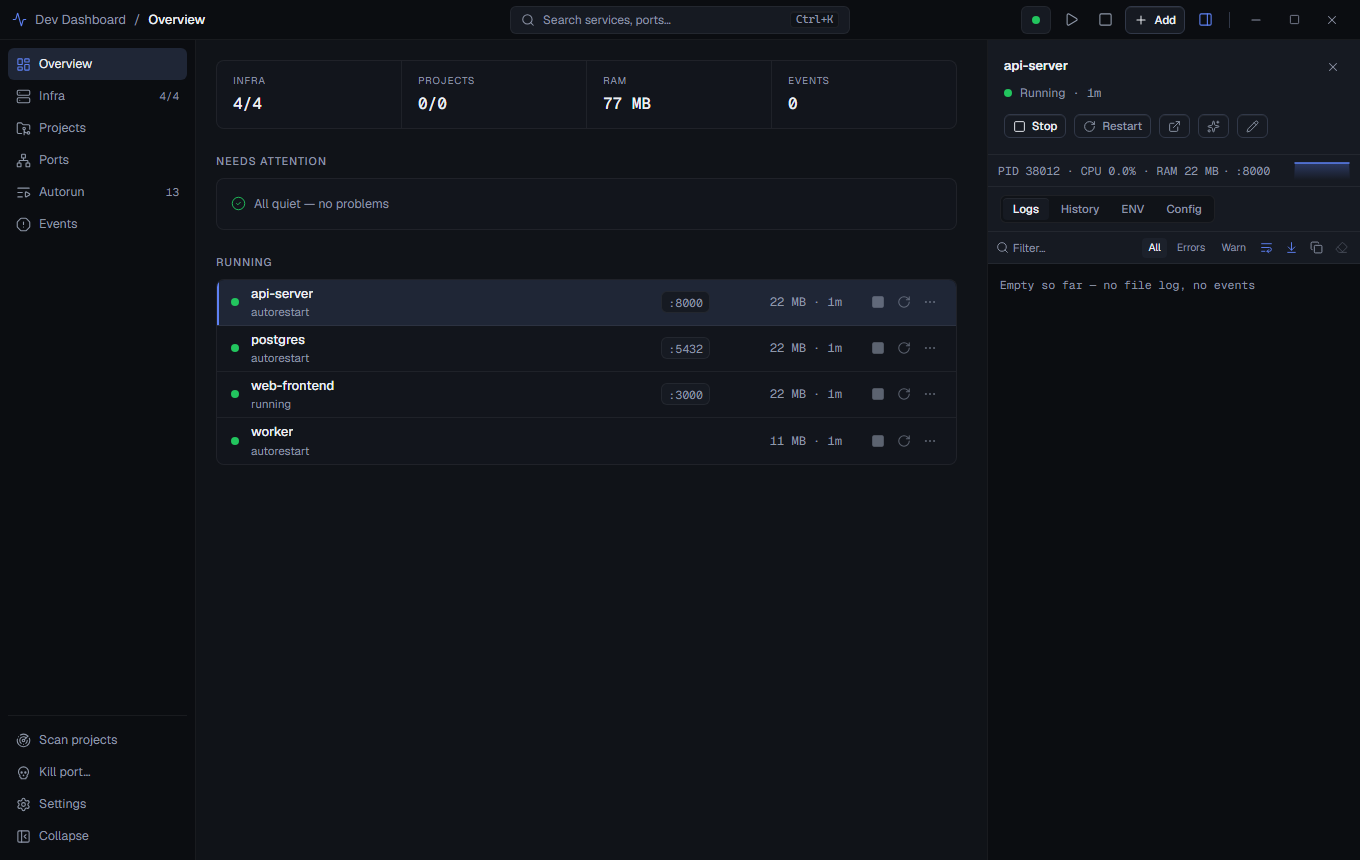
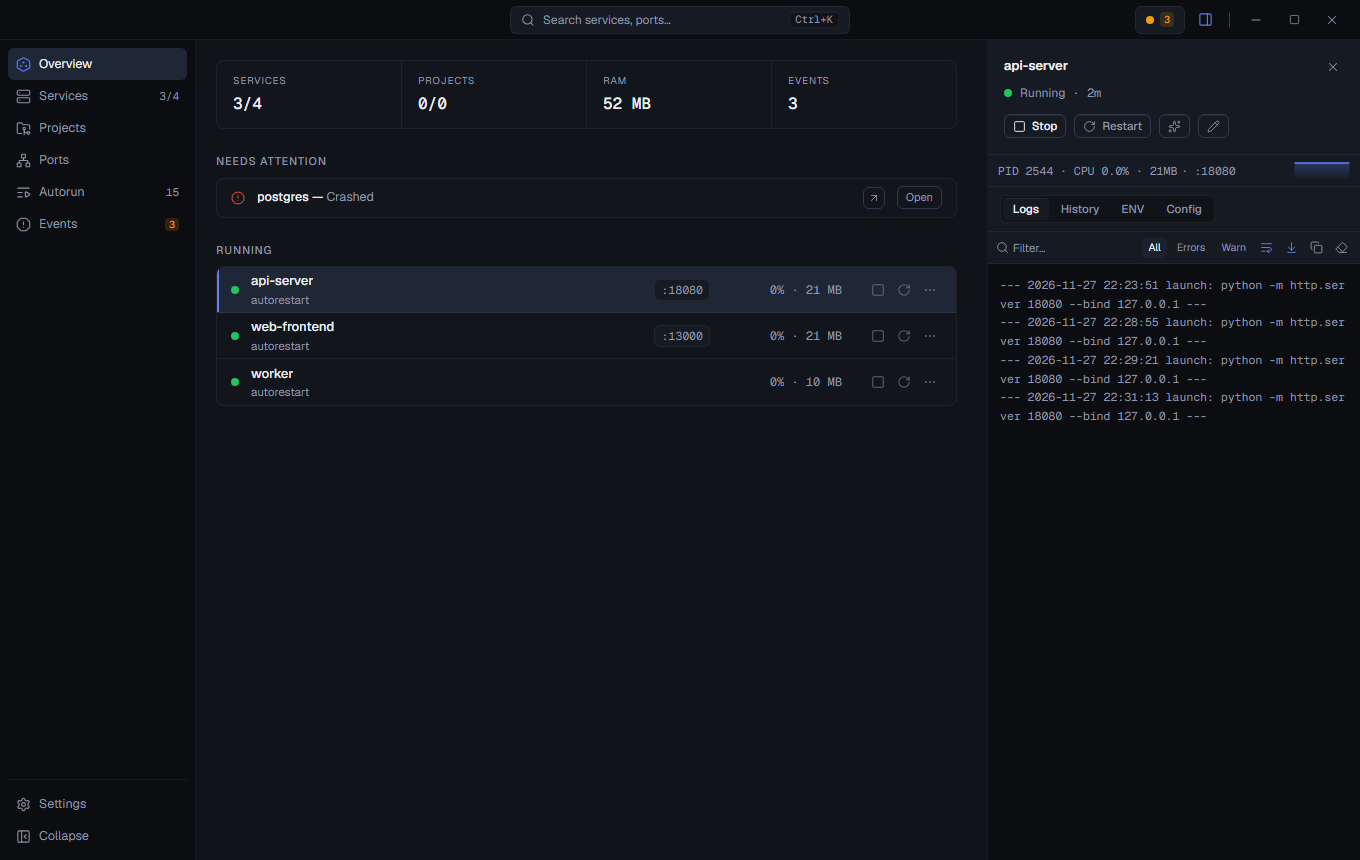
Release v0.10.0 — hardening pass
Version bump, release notes (reviewed for precision against the code),
fresh screenshots from a clean demo instance, downloads badge, feature
bullets for event click-through and process adoption, FEATURES.md synced
with the hardened updater/adoption/event semantics.

diff --git a/backend.py b/backend.py
@@ -22,7 +22,7 @@ BASE_DIR = os.path.dirname(os.path.abspath(
     sys.executable if getattr(sys, "frozen", False) else __file__))
 # read-only resources (frontend/dist, icon.ico): _MEIPASS in a onefile bundle
 RESOURCE_DIR = getattr(sys, "_MEIPASS", BASE_DIR)
-VERSION = "0.9.2"
+VERSION = "0.10.0"
 
 
 def _default_data_dir():

diff --git a/docs/FEATURES.md b/docs/FEATURES.md
@@ -10,10 +10,19 @@
   `Microsoft\WinGet`) → `winget upgrade --id Dvinerlove.DevDashboard`,
   `scoop` → `scoop update dev-dashboard`, zip → прямое скачивание релиза
   и подмена exe; `dev` (из исходников) — отказ с объяснением.
-- Механика: detached ps1-хелпер ждёт смерти pid, применяет обновление,
-  перезапускает exe. Не `.bat` — `find`/`timeout` перехватываются
+- Механика: detached ps1-хелпер ждёт смерти pid (bounded, 1ч — pid-reuse
+  не вешает), применяет обновление, перезапускает exe с исходными
+  аргументами запуска. Не `.bat` — `find`/`timeout` перехватываются
   Git/MSYS-бинарниками на dev-машинах; не `DETACHED_PROCESS` — powershell
   без консоли не стартует. Сервисы переживают обновление (disarm jobs).
+- Верификация релиза: sha256 из `.zip.sha256`-ассета сверяется до распаковки,
+  mismatch — hard fail.
+- Верификация перезапуска: shaped JSON с ключом `services` на реальном
+  порту из `api.port`-маркера (не любой HTTP 200); до 3 попыток, kill
+  только по имени образа (не tree — autostart-проекты не страдают);
+  backup `.bak` + rollback после трёх провалов.
+- In-progress lock от параллельных обновлений; `--web` режим имеет quit_cb;
+  non-Windows — явный отказ.
 - UI: в настройках при наличии новой версии — кнопка «Обновить» рядом
   со ссылкой на релиз; в dev-режиме скрыта.
 
@@ -62,10 +71,19 @@
 - Start: `popen_in_job` в Job Object, stdout/stderr → event-log с тегом `[name]`/`[name ERR]`; error-строки → issue `log_error`
 - Stop: pid обнуляется до kill (не считается крашем), terminate + Job.terminate + добивка дерева
 - Autostart: проекты с `autostart` стартуют при запуске дашборда
-- Ре-адопция: поиск процесса по cwd (минимальный pid, без шеллов), `pid_ctime` защита от pid-reuse
+- Ре-адопция: поиск процесса по cwd с ранжированием доказательств (точный
+  cwd → cwd внутри → exe → упоминание пути в cmdline; npm/pnpm/yarn/bun/шеллы
+  исключены), арбитраж вложенных проектов к более глубокому cwd,
+  `pid_ctime` защита от pid-reuse
+- Witnessed-crash: crash-событие + dead-пилюля только для смерти, которую
+  дашборд видел (pid был подтверждён живым в этой сессии — включая
+  персист без перехода); старт проекта на уже работающем процессе
+  усыновляет его вместо дабл-старта
 - Авто-url: первый LISTEN-порт дерева процесса → `http://localhost:<port>` если url не задан
 - Env проекта: `.env` из cwd с маскированием секретов + `missing` из `env_diff`; сохранение перезаписывает `.env` с сохранением комментариев
-- `delete_project` не убивает процесс — только память удаления + убрать из списка
+- `delete_project` не убивает процесс — disarm job (дерево переживает),
+  чистка всего runtime-state; rename мигрирует runtime-state (и у сервисов
+  тоже: backoff, circuit breaker, log offsets)
 - `NAME_TAKEN` на дубль имени при create; dedup по имени и cwd в `add_projects`
 - Открыть папку (Explorer), открыть в IDE (cursor/code/codium/insiders/sublime через PATH)
 
@@ -137,7 +155,12 @@
 - Секция «Сейчас»: живые problems (мёртвые сервисы/автозапуск) над логом — то, что входит в бейдж
 - «Очистить» → `DELETE FROM issues` (персистентно, не воскресает)
 - Runs-история: deque 10 на имя `{t0,t1,exit}`, `_run_start` на up, `_run_end` на exit/down/dead
-- `problems`: сервисы down/dead без `note` + свои-незапущенные autorun → бейдж `max(issues, problems)`
+- `problems`: сервисы down/dead без `note` + свои-незапущенные autorun →
+  бейдж `max(issues, problems)`; строки несут typed kind (svc/autorun)
+- Каждое событие несёт типизированный `sel` (svc+remote/prj/autorun) —
+  клик открывает инспектор сущности на табе-доказательстве (log_error→Логи,
+  crash→История); legacy-строки без sel не кликабельны
+- kill-pid из портов сверяет ctime со снапшотом скана — pid-reuse отвергается
 
 ## ENV и секреты
 
@@ -220,7 +243,8 @@
 ## Безопасность
 
 - Host allowlist: только `127.0.0.1|localhost|::1` — anti-DNS-rebinding
-- CSRF: Origin обязан localhost при наличии; тело ≤1MB, обязан JSON-объект
+- CSRF: Origin обязан localhost при наличии и пинится к реальному порту API;
+  тело ≤1MB, обязан JSON-объект
 - Path traversal: нормализация + prefix-check на статике
 - `_protected_pid`: sys/db-процессы не принадлежащие сервисам нельзя убить
 - `allow_reuse_address` off на Windows — второй инстанс не перехватит порт

diff --git a/README.md b/README.md
@@ -3,10 +3,16 @@
 **One window for every dev service running on your machine.**
 
 [![Release](https://img.shields.io/github/v/release/dvinerlove/dev-dashboard)](https://github.com/dvinerlove/dev-dashboard/releases)
+[![Downloads](https://img.shields.io/github/downloads/dvinerlove/dev-dashboard/total)](https://github.com/dvinerlove/dev-dashboard/releases)
 [![License: MIT](https://img.shields.io/badge/license-MIT-blue.svg)](LICENSE)
 [![CI](https://github.com/dvinerlove/dev-dashboard/actions/workflows/ci.yml/badge.svg)](https://github.com/dvinerlove/dev-dashboard/actions/workflows/ci.yml)
 
 ![Dev Dashboard](docs/screenshot.png)
+
+<p align="center">
+  <img src="docs/screenshot-ports.png" width="49%" alt="Ports view — every listener on the machine, attributed">
+  <img src="docs/screenshot-events.png" width="49%" alt="Events view — crashes, restarts, port conflicts">
+</p>
 
 Dev Dashboard is a local control panel for dev services on Windows: dev servers, databases, tunnels, containers. It shows what's up and what's down, restarts what crashes, and tells you which process owns which port. It also exposes all of it to AI agents over MCP. Everything runs and stays on your machine — no account, no telemetry.
 
@@ -18,7 +24,8 @@ Dev Dashboard is a local control panel for dev services on Windows: dev servers,
 - **Answer "what's holding this port?" at a glance** — every TCP listener on the machine, attributed to your services, flagged when it's reachable from the LAN
 - **Watch what you don't run locally** — HTTP (keyword + token auth from env), TCP, and Docker monitors for remote services
 - **Edit env vars without leaking secrets** — per-service env overrides in the UI; values whose names look secret (`TOKEN`, `SECRET`, `KEY`, `PASSWORD`, `PASS`, `AUTH`, `CREDENTIAL`, `JWT`, `SESSION`) are masked in API responses
-- **Know why something is red** — an issues feed collects crashes, port conflicts, dependency timeouts, and errors parsed from service logs; run and issue history persists in SQLite
+- **Know why something is red** — an issues feed collects crashes, port conflicts, dependency timeouts, and errors parsed from service logs; every event clicks through to the entity it is about, on the tab with the evidence; run and issue history persists in SQLite
+- **Adopt what you started by hand** — a dev server launched from your own terminal is detected by its working directory and tracked as the project's process; starting it again adopts instead of double-starting
 - **Let AI agents operate it** — a zero-dependency stdio MCP server (7 tools) lets Cursor, Cline, or Codex list services, read logs, and restart things — [setup](README_MCP.md)
 - **Lives on the desktop** — system tray, launch-at-login manager, single instance, RU/EN UI, six themes
 - **Works headless too** — `python dashboard.py --web` serves the same UI and API in a browser
@@ -64,21 +71,18 @@ Config files are plain JSON in the [data directory](#data-location) — edit by 
 
 ## Security model
 
-The API binds to **127.0.0.1 only** and is meant for exactly one trust
-domain: you, on your own machine. Its POST endpoints start, stop and
-restart processes by design — that is the product, not a bug — so treat
-anything that can reach localhost as able to run commands through the
-dashboard:
+The API binds to **127.0.0.1 only** and has no authentication. Any program
+running as your user can use it to reconfigure services and run commands.
 
-- POSTs require an `Origin`/`Host` match against the actual bound API
-  port, which blocks drive-by requests from browsers on other ports.
-- That guard does **not** stop other local processes — any program
-  running as your user can POST to the API. Do not run the dashboard
-  with services you would not want co-opted by other local software.
-- Never expose the port through a tunnel or a reverse proxy, and do not
+- A POST that sends `Origin` is rejected unless that origin is loopback
+  on the actual API port; `Host` must be a loopback host with a port.
+  This blocks drive-by POSTs from browser pages on other localhost ports.
+  POSTs without `Origin` are accepted as local clients.
+- Do not expose the port through a tunnel or a reverse proxy, and do not
   change the bind address away from loopback.
-- ENV secrets are masked in API responses unless `?reveal=1` is passed —
-  masking is a display convenience, not access control.
+- The env endpoints mask secret-looking values unless `?reveal=1` is
+  passed — masking is a display convenience, not access control.
+
 
 ## Configuration
 

diff --git a/docs/release-notes-v0.10.0.md b/docs/release-notes-v0.10.0.md
@@ -1,0 +1,40 @@
+# Dev Dashboard v0.10.0 — Hardening pass
+
+## Highlights
+
+- **Self-update can no longer kill your processes** — the old retry path killed the whole process tree of anything named like the dashboard, and your autostarted projects live in that tree. The updater now kills by exact image name only, verifies the relaunched instance serves the dashboard API (not just any HTTP 200 on the port), keeps a backup of the old exe, and rolls back after three verified failures. Downloads are checked against the SHA256 published with each release.
+- **Stopping a service no longer resurrects it** — a manual stop of an auto-restart service used to count as a crash and trigger an immediate restart, making the service impossible to stop without disabling auto-restart first.
+- **Witnessed crashes now cover survivors** — a dev server that outlives a dashboard restart counts as witnessed, so when it later dies you get the crash event and the dead pill instead of silence. This closes the hole left in v0.9.2's phantom-crash fix.
+- **Events open the affected service or project** — clicking one opens the inspector on the relevant tab (logs for log errors, history for crashes). Events from before this release have no recorded target and stay non-clickable.
+- **No more double-starts** — starting a project whose process is already running outside the dashboard adopts that process instead of spawning a second one.
+- **Safer process adoption** — npm/pnpm/yarn/bun shims are no longer mistaken for the project itself, nested projects resolve to the deepest matching directory, and evidence is ranked (working directory beats exe path beats a path mention in the command line).
+- **Renderer crash recovery** — if the WebView2 renderer stops answering after the window has loaded, the dashboard restarts itself once.
+- **Keyboard access** — service, project, autorun, port, and event rows are focusable and open with Enter/Space; selecting a deleted entry shows "This entry no longer exists" instead of a blank panel.
+- **Self-update works in `--web` mode** — headless instances now exit cleanly so the updater can replace and relaunch them.
+
+## Other fixes
+
+- **Deleted services stay deleted** — deleting a service while its dependencies are starting no longer restarts it or emits events for it.
+- **Background-process kills check pid reuse** — killing a portless dev process from the ports view verifies that its pid was not recycled between listing and clicking.
+- **Duplicate names are rejected** — saving a service or project with a name already used in the same list fails instead of making name-based actions ambiguous.
+- **Renames preserve runtime state** — renamed services keep restart backoff, circuit-breaker state, and log offsets; renamed projects keep running-process and crash state.
+- **Corrupted history databases are rebuilt** — a corrupted `state.db` is quarantined and recreated instead of leaving run and issue history disabled.
+- **CSRF protection pins the API port** — POSTs from browser pages on other localhost ports are rejected.
+- **Autorun warnings open the right row** — clicking a "Needs attention" row for an autorun entry opens that entry even when a service has the same name.
+
+
+## Install / upgrade
+
+Download **`DevDashboard-windows-x64.zip`** below, unzip anywhere, run `DevDashboard.exe`. On v0.9.2, click the topbar update icon to self-install this release.
+
+**SmartScreen:** the exe is unsigned, so Windows will warn — click **More info → Run anyway**.
+
+**Checksums:** verify against `DevDashboard-windows-x64.zip.sha256`:
+
+```powershell
+Get-FileHash DevDashboard-windows-x64.zip -Algorithm SHA256
+```
+
+## Known limitations
+
+- **Windows only, for now.** A POSIX code path exists and passes CI on macOS and Linux, but it has never been run on a real machine.
